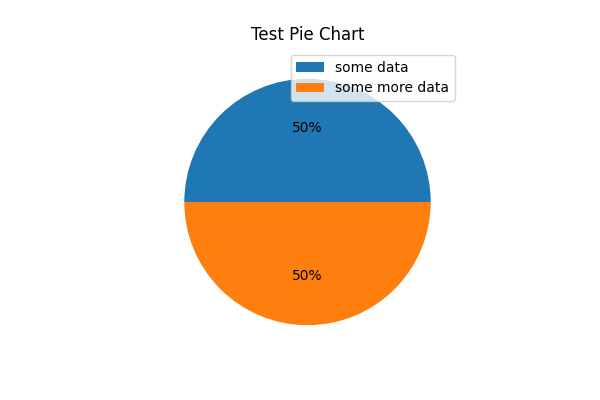
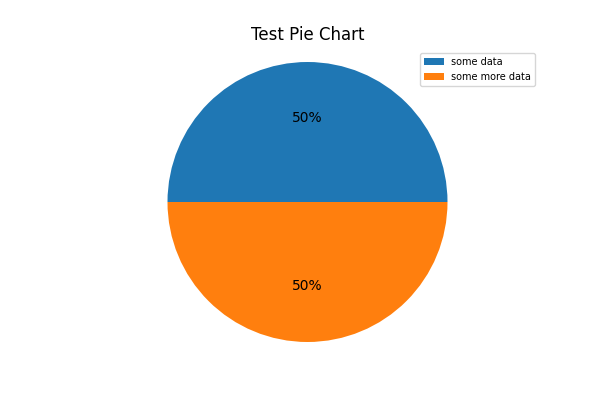
code to create graphs and database connection now on class page

Changed region(s): [[0.27, 0.12, 0.9, 0.87], [0.48, 0.66, 0.54, 0.72]]

diff --git a/application/templates/example.html b/application/templates/example.html
@@ -34,9 +34,8 @@
 <!-- calling the class prints None on the screen because the class method doesn't return anything-->
 <img src="{{ url_for('static', filename='images/piechart1.png') }}" height='300' width='450' alt="chart uses a single value from the database" />
 
-<h2>create the pie chart using a list of values from the database by calling the class and display the image</h2>
-<p>{{ call_my_class.create_pie_from_list(data_list) }}</p>
-<!-- calling the class prints None on the screen because the class method doesn't return anything-->
+<h2>create the pie chart using a list of values from the database by calling the class from the routes.py file and display the resulting image</h2>
+<p>This will remove the 'None' result seen in the above example where the class is called and the class method doesn't return anything so it sends back that 'None' output</p>
 <img src="{{ url_for('static', filename='images/piechart2.png') }}" height='300' width='450' alt="chart uses a list of values from the database" />
 
 {% endblock %}

diff --git a/application/templates/dashboard.html b/application/templates/dashboard.html
@@ -26,7 +26,7 @@
       <th></th>
       <th>&pound;'s</th>
     </tr>
-    {% for item in data_list %}
+    {% for item in user_spending %}
     <tr>
       <td>hmm</td>
       <td>{{ item }}</td>

diff --git a/application/routes.py b/application/routes.py
@@ -1,16 +1,14 @@
 from flask import render_template
 from application import app
-from application.static.scripts.finance import Finance # problem to solve, where does the class need to be for the application to see it
+from application.finance import Finance
 
-# import the data manipulation and visualisation tools
+# imports and database connection here are only to make the example page work, for our actual site we are using them from the class page
 import pandas as pd
 from matplotlib import pyplot as plt
-
-# import a module to connect to sql
 import mysql.connector
-
-# open a local connection to the local server
 cnx = mysql.connector.connect(user='root',password='password',host='127.0.0.1',database='test_finance')
+
+
 
 
 @app.route('/index')
@@ -18,9 +16,11 @@ def index():
     return render_template('index.html', title='ChipIn Home Page')
 
 
+
 @app.route('/articles')
 def articles():
     return render_template('articles.html', title='Articles')
+
 
 
 @app.route('/contact')
@@ -28,49 +28,25 @@ def contact():
     return render_template('contact.html', title='Contact Us')
 
 
+
 @app.route('/form')
 def form_page():
     return render_template('form_page.html', title='Form Page')
 
 
+
 @app.route('/dashboard')
 def dashboard():
 
-    mycursor = cnx.cursor()
-    mycursor.callproc('data_out_list')
-    data_list = []
-    for result in mycursor.stored_results():
-        for returned_list in result:
-            for tuple in returned_list:
-                list_item = tuple
-                data_list.append(list_item)
+    # create an instance of the class
+    dashboard = Finance("dashboard")
 
-    # create a class
-    # class Finance:
+    # create the list from the database and assign to a variable
+    user_spending = dashboard.database_grab_list()
 
-    #     def __init__(self, name):
-    #         self.name = name
-        
-    #     def create_pie(self, my_variable):
-    #         # creates a dataframe that matplot can use
-    #         df = pd.DataFrame({'expenditure': [my_variable], 'spending': [100]})
-    #         # creates the size of the pie chart
-    #         plt.figure(figsize=(6,4))
-    #         # tells the computer to create the pie chart
-    #         plt.subplot()
-    #         # which data to use and to display a whole figure percentage
-    #         plt.pie(df['spending'], autopct='%d%%')
-    #         plt.axis('equal')
-    #         plt.title("Test Pie Chart")
-    #         plt.legend(df['expenditure'], loc='upper right', bbox_to_anchor=(1,1), fontsize=7)
-    #         # put that pie chart in a saved file
-    #         plt.savefig('application/static/images/piechart1.png')
-    #         # return the image
-    #         #return - what to return to remove the None
-    # create an instance of that class
-    create_instance = Finance('Ellen')
+    return render_template('dashboard.html', title='Dashboard', user_spending=user_spending) #key=value pairs (my_variable_on_html_page = this_thing_here_on this page)
 
-    return render_template('dashboard.html', title='Dashboard', data_list=data_list) #key=value pairs (my_variable_on_html_page = this_thing_here_on this page)
+
 
 @app.route('/admin')
 def admin():
@@ -84,10 +60,19 @@ def admin():
                 data_list.append(list_item)
     return render_template('admin.html', title='Admin', data_list=data_list)
 
+
+
+
+
+
+
+################################################################################################
+# code above here - everything below here is for the example page and it is messy, sometimes intentionally messy to show our progress
+
 @app.route('/example')
 def example():
     
-    # code to connect the the database, call a stored procedure and return 1 piece of data
+    # code to connect to the database, call a stored procedure and return 1 piece of data
     mycursor = cnx.cursor()
     mycursor.callproc('data_out')
     the_data = []
@@ -95,58 +80,32 @@ def example():
         the_data.append(result.fetchall())
     for item in the_data:
         my_data = item.pop(0)
+   
+    # create an instance of the class
+    use_class = Finance("example")
 
-    mycursor = cnx.cursor()
-    mycursor.callproc('data_out_list')
-    data_list = []
-    for result in mycursor.stored_results():
-        for returned_list in result:
-            for tuple in returned_list:
-                list_item = tuple
-                data_list.append(list_item)
+    # create the list from the database and assign to a variable
+    list_of_data_from_database = use_class.database_grab_list()
 
-    # create a class
+    # use the class to create a graph
+    use_class.create_pie(list_of_data_from_database)
+
+    # created a test class and added a graph method - see example page for resulting problem that we solved by moving the class to another page
     class Test:
-
         def __init__(self, name):
             self.name = name
-        
         def get_name(self):
             return f"My name is {self.name}."
         
         def create_pie(self, my_variable):
-            # creates a dataframe that matplot can use
             df = pd.DataFrame({'expenditure': [my_variable], 'spending': [100]})
-
-            # creates the size of the pie chart
             plt.figure(figsize=(6,4))
-            # tells the computer to create the pie chart
             plt.subplot()
-            # which data to use and to display a whole figure percentage
             plt.pie(df['spending'], autopct='%d%%')
             plt.title("Test Pie Chart")
-            # uses the variable pulled from the database to create the chart legend
             plt.legend(df['expenditure'])
-            # put that pie chart in a saved file
             plt.savefig('application/static/images/piechart1.png', transparent=True)
-            #return - what to return to remove the None output
-        
-        def create_pie_from_list(self, my_list):
-            # creates a dataframe that matplot can use
-            df = pd.DataFrame({'expenditure': my_list, 'spending': [50, 50]})
-
-            # creates the size of the pie chart
-            plt.figure(figsize=(6,4))
-            # tells the computer to create the pie chart
-            plt.subplot()
-            # which data to use and to display a whole figure percentage
-            plt.pie(df['spending'], autopct='%d%%')
-            plt.title("Test Pie Chart")
-            # uses the variable pulled from the database to create the chart legend
-            plt.legend(df['expenditure'])
-            # put that pie chart in a saved file
-            plt.savefig('application/static/images/piechart2.png', transparent=True)
-            #return - what to return to remove the None output
+            #return - the class method doesn't return anything so it sends back 'None' as an output which is then displayed on our webpage
         
         def database_insert(self, value): #  not sure if this works until I get a form working
             mycursor = cnx.cursor()
@@ -154,8 +113,8 @@ def example():
             args=[data_to_insert]
             mycursor.callproc('add_data', args)
             cnx.commit()
-
+        
     # create an instance of that class
     create_single_instance = Test('Some Name')
 
-    return render_template('example.html', title='Working Example Page', call_my_class=create_single_instance, my_data=my_data, data_list=data_list) #key=value pairs (my_variable = this_thing_here)
+    return render_template('example.html', title='Working Example Page', call_my_class=create_single_instance, my_data=my_data) #key=value pairs (my_variable = this_thing_here)

diff --git a/application/finance.py b/application/finance.py
@@ -1,0 +1,49 @@
+# import the data manipulation and visualisation tools
+import pandas as pd
+from matplotlib import pyplot as plt
+
+# import a module to connect to sql and open a local connection to the local server assigned to the variable 'cnx'
+import mysql.connector
+cnx = mysql.connector.connect(user='root',password='password',host='127.0.0.1',database='test_finance')
+
+# create a class
+class Finance:
+    def __init__(self, name):
+        self.name = name
+    def get_name(self):
+        return f"My name is {self.name}."
+    
+    # code to connect to the database, call a stored procedure and return a list of pieces of data
+    def database_grab_list(self):
+        mycursor = cnx.cursor()
+        mycursor.callproc('data_out_list')
+        data_list = []
+        for result in mycursor.stored_results():
+            for returned_list in result:
+                for tuple in returned_list: 
+                    list_item = tuple
+                    data_list.append(list_item)
+        return data_list
+        # tells the database connection where to look and assigns that to a variable
+        # uses that variable to tell the database connection to run a stored procedure
+        # stored results takes the data now stored in the mycursor variable as an iterable
+        # cycles through that list and unpacks the tuples
+        # collects the strings and adds them into the empty list and returns the list
+
+    # code to create a pie chart using a list
+    def create_pie(self, my_list):
+        df = pd.DataFrame({'expenditure': my_list, 'spending': [50, 50]})
+        plt.figure(figsize=(6,4))
+        plt.subplot()
+        plt.pie(df['spending'], autopct='%d%%')
+        plt.axis('equal')
+        plt.title("Test Pie Chart")
+        plt.legend(df['expenditure'], loc='upper right', bbox_to_anchor=(1,1), fontsize=7)
+        plt.savefig('application/static/images/piechart2.png', transparent=True)
+        # creates a dataframe that matplot can use
+        # creates the size of the pie chart
+        # tells the computer to create the pie chart
+        # which data to use and to display a whole figure percentage
+        # put that pie chart (with a transparent background) in a saved file 
+
+    
